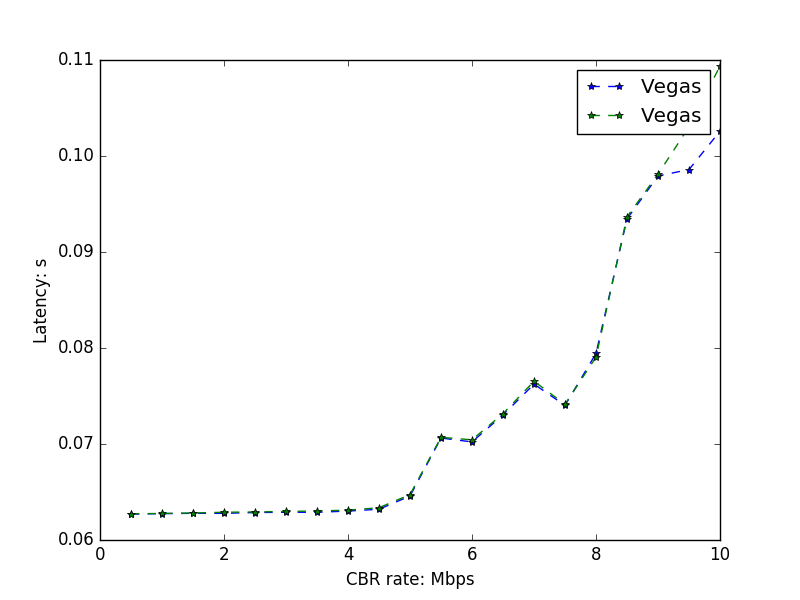
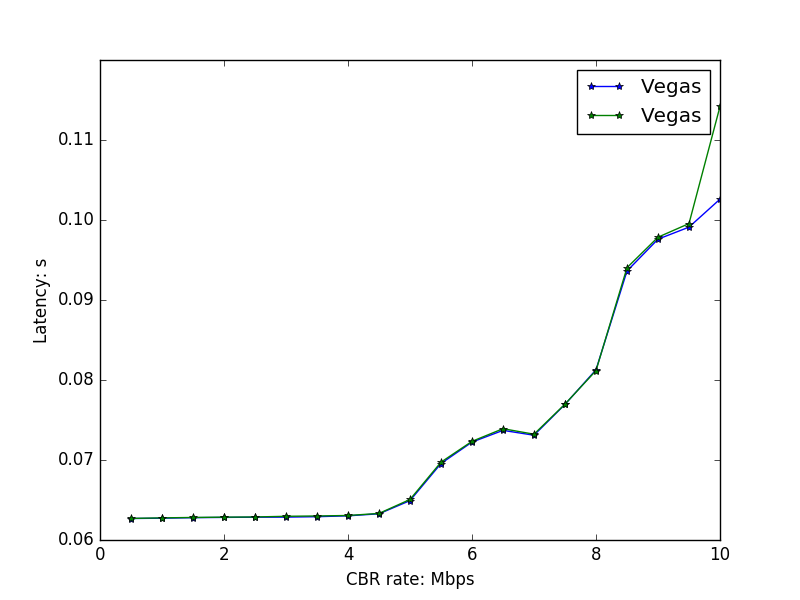
use solid line instead of dashed

diff --git a/p3/exp3/run_exp3.py b/p3/exp3/run_exp3.py
@@ -61,7 +61,7 @@ def runExp1(duration):
     return stat
 
 def main():
-    color = {'SACK_DropTail':'--o', 'SACK_RED':'--^', 'Reno_DropTail':'--s', 'Reno_RED':'--*'}
+    color = {'SACK_DropTail':'-o', 'SACK_RED':'-^', 'Reno_DropTail':'-s', 'Reno_RED':'-*'}
     duration = 30
     stat = runExp1(duration)
     nfig = 0

diff --git a/p3/exp2/run_exp2.py b/p3/exp2/run_exp2.py
@@ -83,7 +83,7 @@ def main():
     cbr_start = 1
     cbr_end = 21
     step = 0.5
-    color = {'Tahoe':'--o', 'Reno':'--^', 'Newreno':'--s', 'Vegas':'--*'}
+    color = {'Tahoe':'-o', 'Reno':'-^', 'Newreno':'-s', 'Vegas':'-*'}
     stat1, stat2 = runExp1(cbr_start, cbr_end, step)
     nfig = 0
     for k in stat1:

diff --git a/p3/exp1/run_exp1.py b/p3/exp1/run_exp1.py
@@ -75,7 +75,7 @@ def main():
     cbr_start = 1
     cbr_end = 21
     step = 0.5
-    color = {'Tahoe':'--o', 'Reno':'--^', 'Newreno':'--s', 'Vegas':'--*'}
+    color = {'Tahoe':'-o', 'Reno':'-^', 'Newreno':'-s', 'Vegas':'-*'}
     stat = runExp1(cbr_start, cbr_end, step)
     nfig = 0
     for k in stat:
